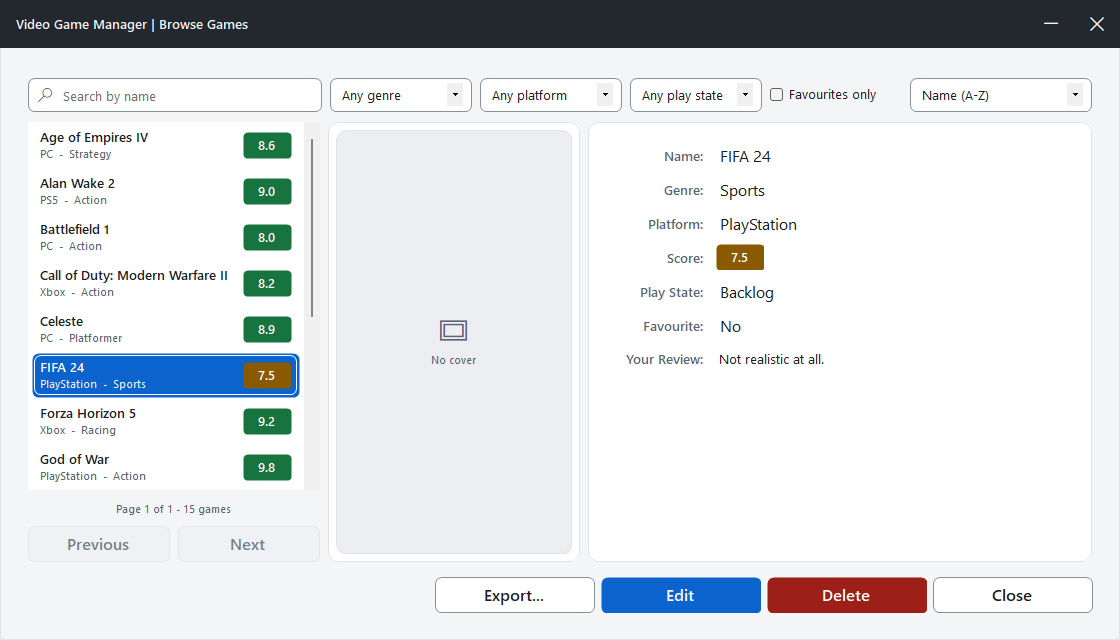
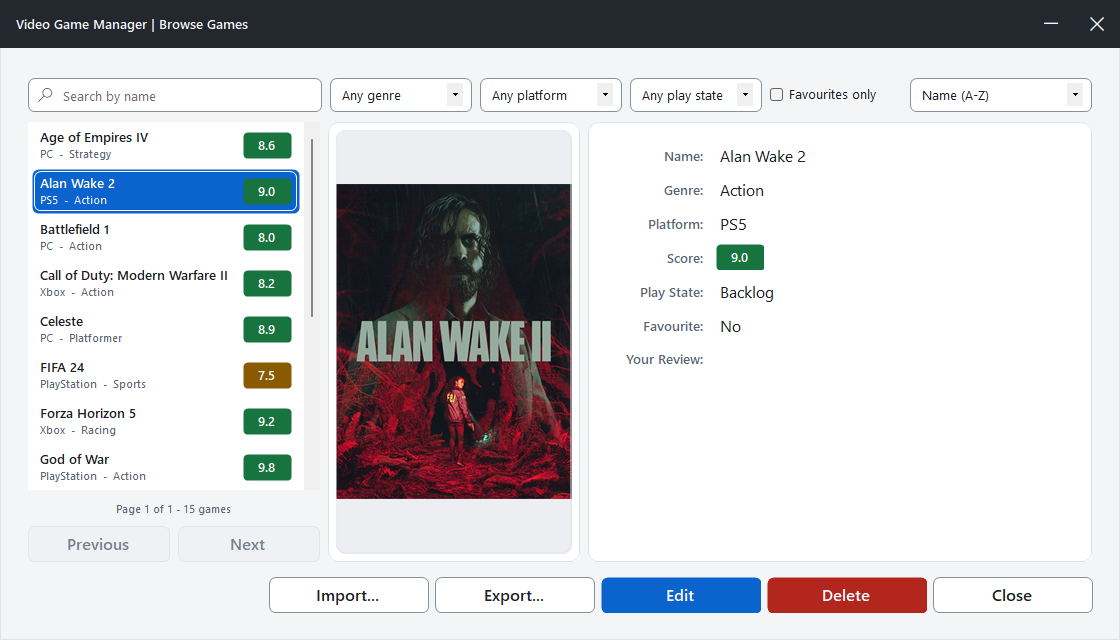
chore(tests,db,docs,winforms): sync the documentation with the code and cut 1.1.0
- Add PreserveCompilationContext to VideoGameManager.Tests.Desktop. Without it
  coverlet could not resolve System.Windows.Forms while instrumenting
  VideoGameManager, and dropped the assembly from the report instead of failing,
  so the desktop suite measured nothing it was written for. The report now lists
  VideoGameManager, with CachedCoverImageProvider at 81.0% line coverage.
- Repoint the two sample cover links that had gone dead upstream: FIFA 24, which
  returned 404, and Hollow Knight, whose WebP thumbnail path returned 400. All
  fifteen sample links now return 200 and an image content type.
- Record the documentation language decision in ADR 0010: an English README with
  a Turkish translation beside it, rather than the other way round.
- Describe importing in docs/architecture.md, add the two view members the
  contract was missing, and rewrite the test and coverage sections for the second
  test project.
- Merge the two Added headings that had accumulated under one changelog version.
- Drop the claim that three sample cover links are dead from both READMEs.
- Retake the browse screen shot, which predated the Import button.
- Cut 1.1.0 in the changelog and the version properties.

diff --git a/CHANGELOG.md b/CHANGELOG.md
@@ -5,7 +5,12 @@ All notable changes to this project are documented here.
 The format follows [Keep a Changelog](https://keepachangelog.com/en/1.1.0/), and the
 project aims to follow [Semantic Versioning](https://semver.org/spec/v2.0.0.html).
 
-## [Unreleased]
+## [1.1.0] - 2026-09-08
+
+A round of work on top of the first release. The presentation layer moved into a project of
+its own so it could be tested, the nullable reference context was turned on everywhere, the
+cover art pipeline stopped re-downloading full-size images, and the catalogue can now be
+read back in from a file as well as written out.
 
 ### Added
 - Import the catalogue from a JSON file, on the browse screen beside Export.
@@ -20,35 +25,6 @@ project aims to follow [Semantic Versioning](https://semver.org/spec/v2.0.0.html
   single entry that breaks a domain rule is skipped while the rest still arrive. Every run
   reports the three counts it produced - stored, already present, refused by the validator -
   and the counts always add up to the number of entries in the file.
-
-### Performance
-- A cached cover is stored in the format its content calls for: JPEG at quality 90 unless
-  the picture has transparent pixels, in which case PNG is kept. The decision is made by
-  inspecting the pixels rather than trusting the declared pixel format - cover art published
-  as PNG routinely carries a fully opaque alpha channel, and the catalogue's largest cover is
-  exactly such a file, so the cheap check would have kept it lossless for no benefit. The
-  three largest covers went from 1,887,210 bytes on disk to 236,646, and their decode time
-  roughly halved. The scan costs under a millisecond, once per download.
-- Cache files left under the previous naming scheme are deleted once per run, limited to the
-  cache folder's own top level and to that exact extension, with every failure swallowed.
-- Cover art is scaled to twice the size it is drawn at before it reaches the disk cache,
-  and the target size is mixed into the cache key so an entry cannot outlive the size it
-  was stored for. Decoding the largest cover in the sample data went from 71 ms to 4 ms,
-  because what is decoded is now a 480-pixel image rather than a 2600-pixel one.
-- The recommendation screen goes through the same cached path as the browse screen. Its
-  cover slot was a plain `PictureBox` calling `LoadAsync`, so every recommendation
-  downloaded the full-size artwork again: measured at 1024 ms for the largest cover, now
-  paid once and then 5 ms from disk or nothing at all from memory.
-- `ICoverImageProvider` is a singleton in the composition root rather than something each
-  form constructs for itself. The in-memory cache used to be discarded every time a window
-  closed, and `BrowseGamesForm` built two providers and threw the first away.
-- An address that fails is remembered for the rest of the run, so a dead cover link costs
-  one timeout rather than one per selection. The request timeout is 6 seconds, down from
-  10.
-- The in-memory cache holds 32 covers and disposes what it evicts. It had no bound, which
-  did not matter while it died with the window and would have as a singleton.
-
-### Added
 - `VideoGameManager.Presentation`, a `net10.0` project holding the view interfaces and the
   presenters, which used to sit inside the desktop project. They mentioned no WinForms type
   even then, but a `net10.0` test project cannot reference a `net10.0-windows` one, so the
@@ -64,6 +40,9 @@ project aims to follow [Semantic Versioning](https://semver.org/spec/v2.0.0.html
 - `global.json`, pinning the SDK feature band with `rollForward: latestFeature`.
 - `README.tr.md`, a Turkish translation of the README. The English one remains the README
   the repository opens with; the two are updated together.
+- ADR 0010, recording why `README.md` stays the primary document and `README.tr.md` a
+  translation kept beside it, rather than the other way around, which is what an earlier
+  phase of the brief had called for.
 - `VideoGameManager.Tests.Desktop`, a second test project targeting `net10.0-windows`, for
   code that cannot be reached from a portable one. It holds nine tests covering the cover
   art pipeline - scaling, cache keys, negative caching and the cache bound - and the
@@ -101,6 +80,33 @@ project aims to follow [Semantic Versioning](https://semver.org/spec/v2.0.0.html
   `actions/upload-artifact@v6` - the oldest versions of each that run on Node 24, now that
   GitHub is retiring Node 20.
 
+### Performance
+- A cached cover is stored in the format its content calls for: JPEG at quality 90 unless
+  the picture has transparent pixels, in which case PNG is kept. The decision is made by
+  inspecting the pixels rather than trusting the declared pixel format - cover art published
+  as PNG routinely carries a fully opaque alpha channel, and the catalogue's largest cover is
+  exactly such a file, so the cheap check would have kept it lossless for no benefit. The
+  three largest covers went from 1,887,210 bytes on disk to 236,646, and their decode time
+  roughly halved. The scan costs under a millisecond, once per download.
+- Cache files left under the previous naming scheme are deleted once per run, limited to the
+  cache folder's own top level and to that exact extension, with every failure swallowed.
+- Cover art is scaled to twice the size it is drawn at before it reaches the disk cache,
+  and the target size is mixed into the cache key so an entry cannot outlive the size it
+  was stored for. Decoding the largest cover in the sample data went from 71 ms to 4 ms,
+  because what is decoded is now a 480-pixel image rather than a 2600-pixel one.
+- The recommendation screen goes through the same cached path as the browse screen. Its
+  cover slot was a plain `PictureBox` calling `LoadAsync`, so every recommendation
+  downloaded the full-size artwork again: measured at 1024 ms for the largest cover, now
+  paid once and then 5 ms from disk or nothing at all from memory.
+- `ICoverImageProvider` is a singleton in the composition root rather than something each
+  form constructs for itself. The in-memory cache used to be discarded every time a window
+  closed, and `BrowseGamesForm` built two providers and threw the first away.
+- An address that fails is remembered for the rest of the run, so a dead cover link costs
+  one timeout rather than one per selection. The request timeout is 6 seconds, down from
+  10.
+- The in-memory cache holds 32 covers and disposes what it evicts. It had no bound, which
+  did not matter while it died with the window and would have as a singleton.
+
 ### Fixed
 - ADR 0007 reported roughly twice as many nullable diagnostics as there were. MSBuild prints
   every diagnostic twice, once where it occurs and once in the project summary, so counting
@@ -114,8 +120,20 @@ project aims to follow [Semantic Versioning](https://semver.org/spec/v2.0.0.html
   `.webp`, which `System.Drawing` cannot decode, and the FIFA 24 link is genuinely gone.
   Existing databases keep the old values - the seed script only inserts rows that are
   missing, it does not update rows that are there.
+- The FIFA 24 and Hollow Knight seed rows, the two links the fix above left alone for want
+  of anything better. FIFA 24's answered 404 and Hollow Knight's answered 400. Both now
+  point at Steam's CDN, which answers with the image itself. As before, an existing
+  database keeps whatever it already has - the seed script only inserts rows that are
+  missing.
 - Two unreachable null checks in the exporters, left over from before `Game.Platforms` was
   guaranteed never to be null.
+- `VideoGameManager.Tests.Desktop`'s coverage report never showed the assembly it exists to
+  measure. Coverlet's Mono.Cecil-based instrumenter cannot resolve `System.Windows.Forms`
+  while rewriting `VideoGameManager.dll` - it sees reference assemblies only, not the
+  runtime pack - and dropped that assembly from the report instead of failing the build, so
+  the run stayed green while covering nothing in the one project the report was for.
+  `PreserveCompilationContext` on the test project fixes the resolution; `VideoGameManager`
+  now appears in the report, with `CachedCoverImageProvider` at 81.0% line coverage.
 
 ## [1.0.0] - 2026-09-07
 
@@ -368,5 +386,5 @@ hard-coded connection string into a layered, tested and documented application.
   `.vs/`, compiled binaries under `bin/` and `obj/`, and the 4.7 MB database backup. They
   remain on disk.
 
-[Unreleased]: https://github.com/ayberkaarda/VideoOyunYonetim/compare/v1.0.0...HEAD
+[1.1.0]: https://github.com/ayberkaarda/VideoOyunYonetim/releases/tag/v1.1.0
 [1.0.0]: https://github.com/ayberkaarda/VideoOyunYonetim/releases/tag/v1.0.0

diff --git a/docs/architecture.md b/docs/architecture.md
@@ -354,6 +354,7 @@ public interface IGameListView : IView
     IReadOnlyList<string> Genres { set; }
     IReadOnlyList<string> Platforms { set; }
     IReadOnlyList<ExportFormat> ExportFormats { set; }
+    IReadOnlyList<ImportFormat> ImportFormats { set; }
 
     string SearchText { get; }
     string SelectedGenre { get; }        // null means "any"
@@ -371,6 +372,7 @@ public interface IGameListView : IView
     event EventHandler? EditRequested;
     event EventHandler? DeleteRequested;
     event EventHandler<ExportRequestedEventArgs>? ExportRequested;
+    event EventHandler<ImportRequestedEventArgs>? ImportRequested;
 
     void ShowDetails(Game? game);
     void ShowPage(int page, int pageCount, int totalCount);
@@ -391,7 +393,14 @@ it to say so. Choosing the path belongs to the view, which owns the file dialog;
 the bytes belongs to the presenter, which owns no window.
 
 `ExportFormat` exists so the view can build a file-dialog filter without referencing
-`IGameExporter`; the presenter maps the chosen name back to the exporter.
+`IGameExporter`; the presenter maps the chosen name back to the exporter. `ImportFormat`
+and `IGameImporter` mirror that pair for the read side: an importer reads from a
+`TextReader` the caller owns and never touches a path or a dialog itself. Importing is
+additive only - a title already in the catalogue is left as it is and counted as skipped
+rather than overwritten, which is what makes importing the same file twice harmless. A
+row that breaks a validation rule is skipped and counted too, while the rest of the file is
+still read; a file that is not a well-formed document of the chosen format is refused
+whole, before anything is stored.
 
 Rules:
 
@@ -464,15 +473,25 @@ chain and can be built in parallel.
 
 ## Tests
 
-One project, `VideoGameManager.Tests`, targeting `net10.0` and referencing Domain, Data
-and Services. The package choices and the reasoning behind them are in ADR 0006.
+Two projects, split along the same Windows boundary as the projects they test. Almost
+everything lives in `VideoGameManager.Tests`, targeting `net10.0` and referencing Domain,
+Data, Services and Presentation - every layer a Linux build agent can run. The package
+choices and the reasoning behind them are in ADR 0006.
 
 ```
 Domain/         validation rules, the score range, the result types
+Data/           SqlConnectionFactory's connection-string validation
 Services/       every service, with the repository interfaces substituted
+Presenters/     every presenter, driven through its IView with a substituted view
 TestDoubles/    the one helper that manufactures a provider exception
 Integration/    the repositories and the migration chain, against a real SQL Server
 ```
+
+`VideoGameManager.Tests.Desktop` targets `net10.0-windows` and references the desktop
+project directly, for the part of it that a `net10.0` project structurally cannot reach:
+code sitting behind `System.Windows.Forms` or GDI+. Today that is the cover art cache,
+which resizes and re-encodes with `System.Drawing`. When a new test could run on Linux
+instead, it belongs in the first project (ADR 0009).
 
 ### Unit tests
 
@@ -530,6 +549,12 @@ rather than inside the desktop project (ADR 0008). A presenter is driven through
 screen does - which message a rejected save shows, that deleting the last row of a page
 steps back a page - without a window ever being created.
 
-The only code with no automated coverage is the desktop project itself: the forms, the
-designer output and the owner-drawn control library. That is deliberate. What is left
-there is the part that has to be looked at to be judged.
+Almost none of the desktop project carries automated coverage, and that is deliberate: the
+forms, the designer output and the owner-drawn control library are the part that has to be
+looked at to be judged, not asserted against. The one exception is what
+`VideoGameManager.Tests.Desktop` measures directly against `VideoGameManager` itself,
+which needed `PreserveCompilationContext` on the test project to work at all - without it,
+coverlet's instrumenter cannot resolve `System.Windows.Forms` while rewriting the assembly
+from reference assemblies alone, and used to drop it from the report rather than fail the
+build. A run could stay green while covering none of the one project the report was meant
+for, and did, until the reference was added.

diff --git a/docs/adr/0010-english-as-the-primary-language.md b/docs/adr/0010-english-as-the-primary-language.md
@@ -1,0 +1,71 @@
+# ADR 0010 - English as the primary language, with a Turkish translation of the README
+
+Status: accepted. Records a deliberate deviation from the modernisation brief.
+
+## Context
+
+The brief asked for two things about language. The final phase was to produce "a Turkish
+main README plus an English `README.en.md`", and an earlier phase was to keep the Turkish
+strings already in the user interface, moving new ones into resource files so that
+localisation stayed possible later.
+
+Both were reasonable when written. Neither survived contact with what the project became.
+
+The user interface was translated to English early, at the project owner's instruction, and
+the translation was total: every form caption, every message, every column header, the
+sample data, the database itself. The screenshots in the README were retaken against the
+English screens. From that point a Turkish README described an application whose every
+label was English, using names that no longer appeared anywhere on screen.
+
+The code had already gone the same way. Identifiers, comments, XML documentation, SQL,
+log messages and commit subjects are English throughout, and the entities the brief itself
+named - `Game`, `Review`, `Genre`, `Platform` - were English from the first phase.
+
+So the question was never "which language is this project in". It was only which file gets
+the name `README.md`, because that is the one GitHub renders on the landing page.
+
+## Decision
+
+English is the primary language of the repository. `README.md` is English. A faithful
+Turkish translation lives beside it as `README.tr.md`, and the two change together.
+
+Turkish appears in exactly one tracked file: `README.tr.md`. Nowhere else - not in code,
+comments, SQL, resource values, screenshot filenames or commit messages.
+
+New user-facing strings still go into the resource files rather than being written inline,
+as the brief asked, even though only one language ships.
+
+## Rationale
+
+**The primary README should be in the language of the thing it documents.** The
+application, the code and the screenshots are English. A Turkish landing page would be a
+translation layer over an English artefact, and the first place it would mislead is the
+part a newcomer needs most: the walkthrough of screens whose buttons it would have to name
+twice.
+
+**`README.tr.md` rather than `README.en.md` is the same decision seen from the other side.**
+Only one of the two files can be the default, and the default should match the code.
+
+**The translation has a real maintenance cost, and it has already been paid once.** The
+Turkish README was deleted outright in `12227bb`: it had fallen behind its English
+counterpart and five of its image references were broken. It was reinstated in `23538a3`,
+in full, because being able to read the project in Turkish was worth the upkeep. What made
+it rot was drift, not translation - so the rule attached to it is that a change to
+`README.md` is incomplete until the same change is in `README.tr.md`.
+
+**Keeping the resource files in the loop costs nothing now and keeps the option open.**
+Strings live in `.resx` because that is where a second shipped language would come from.
+That the project ships one language today does not argue for hard-coding.
+
+## Consequences
+
+- Any edit to `README.md` lands in `README.tr.md` in the same change. A pull request that
+  touches one and not the other is incomplete.
+- A reader comparing the repository against the brief finds the two README languages
+  swapped and no `README.en.md`. That is this record's reason for existing.
+- The user interface has no Turkish strings and will not regain any. Restoring them would
+  mean retaking every screenshot and retranslating the sample data, which is a larger
+  change than it looks.
+- Adding a third language is a new decision, not an extension of this one. Two translations
+  drift faster than one, and the mechanism here - discipline, not tooling - does not scale
+  to three.

diff --git a/README.md b/README.md
@@ -338,9 +338,11 @@ in numbered phases:
 | 6 | CI & documentation — GitHub Actions, `.editorconfig`, `CHANGELOG.md` | ✅ done |
 
 Known limitations are listed in [`CHANGELOG.md`](CHANGELOG.md) rather than hidden. The
-application is DPI-unaware by design, matching the layout the forms were drawn against, and
-three of the fifteen sample cover links have gone dead upstream — the app shows a
-placeholder and logs the failure rather than pretending otherwise.
+application is DPI-unaware by design, matching the layout the forms were drawn against.
+Every cover link in the sample data resolves today, but a URL hosted on someone else's
+server can go dead at any point after that — the seed data itself has already needed
+re-pointing more than once — and the application is built for exactly that: a dead link
+shows a placeholder and logs the failure rather than pretending the picture loaded.
 
 ## Development
 

diff --git a/README.tr.md b/README.tr.md
@@ -345,9 +345,11 @@ fazlar halinde taşınıyor:
 
 Bilinen sınırlamalar gizlenmek yerine [`CHANGELOG.md`](CHANGELOG.md) dosyasında
 listeleniyor. Uygulama tasarım gereği DPI'dan bağımsız (DPI-unaware); formların çizildiği
-düzeni birebir koruyor. Ayrıca örnek verideki on beş kapak bağlantısından üçü kaynağında
-ölmüş durumda — uygulama bunları gizlemek yerine yer tutucu gösteriyor ve hatayı log'a
-yazıyor.
+düzeni birebir koruyor. Örnek verideki kapak bağlantılarının hepsi bugün çalışıyor, ama
+başka birinin sunucusunda barınan bir URL herhangi bir noktada ölebilir — seed verisi
+zaten birden fazla kez yeniden yönlendirilmek zorunda kaldı — ve uygulama tam da bunun
+için hazır: ölü bir bağlantı, resmin yüklendiğini varsaymak yerine bir yer tutucu gösterir
+ve hatayı log'a yazar.
 
 ## Geliştirme
 
